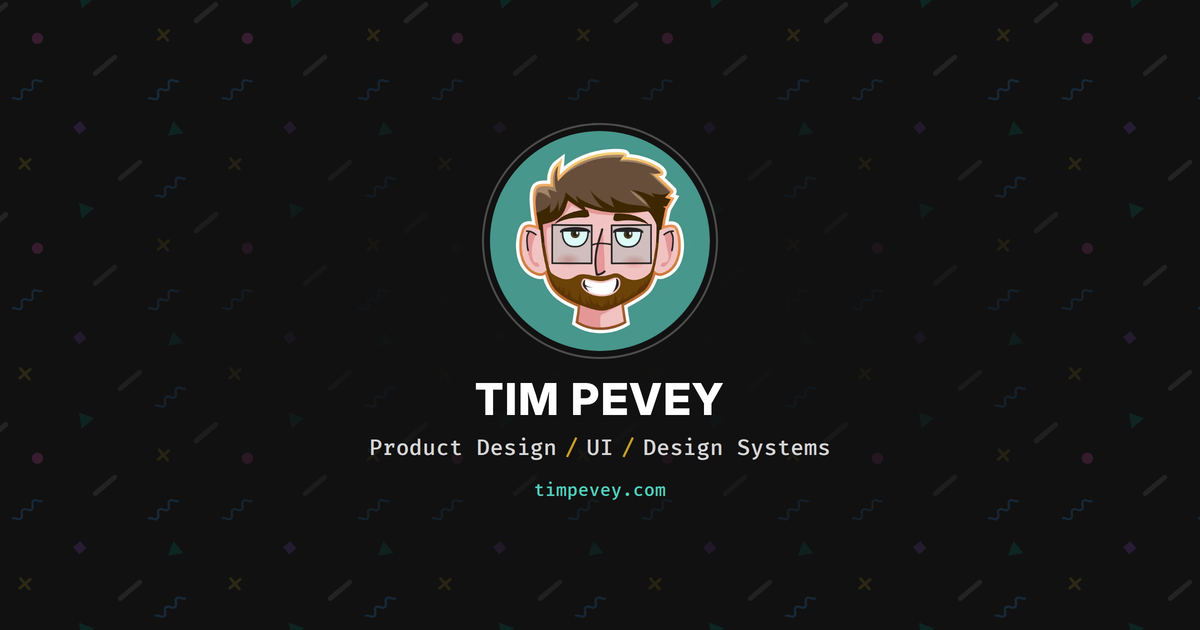
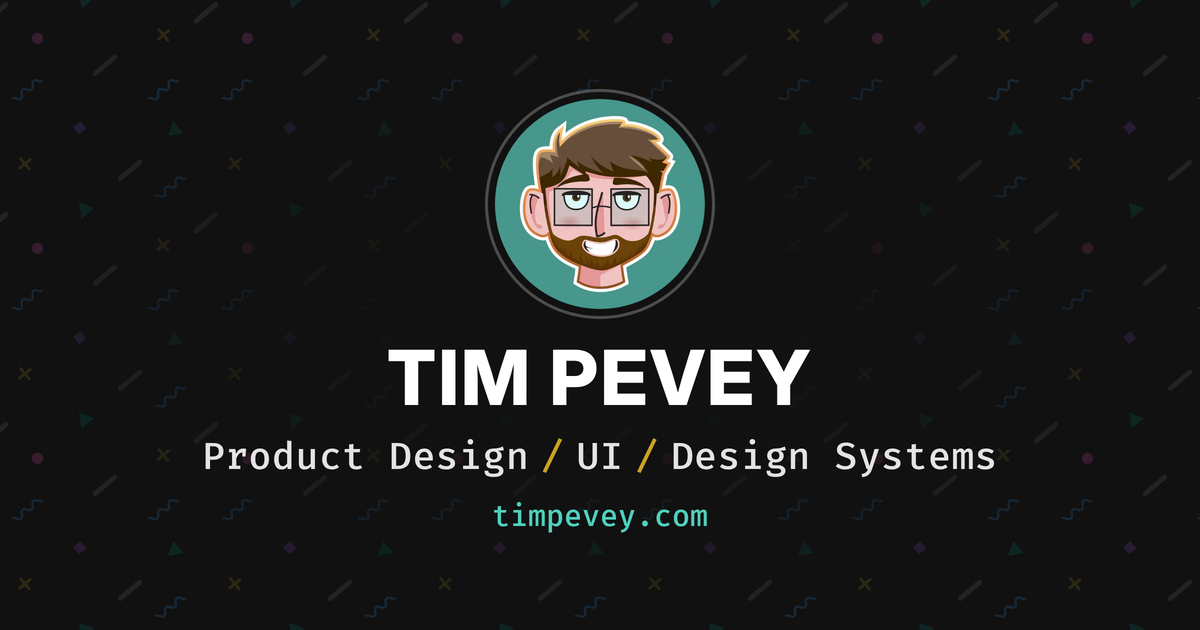
feat(seo): version share image URLs by content hash
Link previews cache images by URL, so a replaced file at the same path
went unnoticed. Append a short SHA-1 hash of each image's contents
(?v=xxxxxxxx) to og:image URLs at build time, falling back to the plain
URL if the file is missing.

Also update the home share image and add serial commas to the home and
case study meta titles and descriptions.

Changed region(s): [[0.3083, 0.1206, 0.6783, 0.6635], [0.1542, 0.6937, 0.8325, 0.8444]]

diff --git a/vite.config.js b/vite.config.js
@@ -4,6 +4,7 @@ import { readdirSync, readFileSync } from 'node:fs';
 import { join, relative, sep } from 'node:path';
 import { imageSize } from 'image-size';
 import { load as yamlLoad } from 'js-yaml';
+import { createHash } from 'node:crypto';
 
 // Case-study images load lazily, so the browser doesn't know their size until
 // they arrive. Without a size, each one starts 0px tall and the page grows as
@@ -61,13 +62,14 @@ function assetDims() {
 // page and emits a real <slug>/index.html per live case study, so each URL
 // returns 200 with its own title, description and image. Share images live
 // in public/og/ (1200x630) at stable URLs: <slug>.jpg for screenshots,
-// home.png for the home page; swap them freely.
+// home.png for the home page. Replace a file and its URL changes on the next
+// build (see versioned() below), so previews pick up the new image.
 const SITE = 'https://timpevey.com';
 const SITE_NAME = 'Tim Pevey';
 const HOME = {
   path: '/',
-  title: 'Tim Pevey | Product Designer, UI and Design Systems',
-  description: 'Product and UI designer focused on simplicity, clarity and systems thinking. Work in web, design systems and motion.',
+  title: 'Tim Pevey | Product Designer, UI, and Design Systems',
+  description: 'Product and UI designer focused on simplicity, clarity, and systems thinking. Work in web, design systems, and motion.',
   image: '/og/home.png', // PNG: crisp type on a flat graphic
 };
 
@@ -96,9 +98,21 @@ function readStudyPages() {
   return pages;
 }
 
+// Link previews cache images by URL, so a replaced file at the same address
+// goes unnoticed. Adding a short hash of the file's contents (?v=3f9a2c1b)
+// gives every new version of an image a new address automatically.
+function versioned(image) {
+  try {
+    const hash = createHash('sha1').update(readFileSync(join(import.meta.dirname, 'public', image))).digest('hex');
+    return `${image}?v=${hash.slice(0, 8)}`;
+  } catch {
+    return image; // file missing: plain URL
+  }
+}
+
 function metaTags({ path, title, description, image }) {
   const url = SITE + path;
-  const img = SITE + image;
+  const img = SITE + versioned(image);
   const t = escapeAttr(title);
   const d = escapeAttr(description);
   return [

diff --git a/src/content/case-studies/palettary/index.md b/src/content/case-studies/palettary/index.md
@@ -32,7 +32,7 @@ card: ./assets/palettary-screenshot.webp
 hero: ./assets/palettary-hero-img.webp
 tagline: "A designer's toolset, built by the designer who needed it"
 metaTitle: "Palettary Case Study | Tim Pevey, Product Designer"   # browser tab, search results and link previews
-metaDescription: "A design toolset I built solo: four browser tools, a Figma library and a published CLI. No accounts, no subscriptions."
+metaDescription: "A design toolset I built solo: four browser tools, a Figma library, and a published CLI. No accounts, no subscriptions."
 
 # ─── Body blocks ───────────────────────────────────────────────────────
 # Skeleton: copy is first-draft — rewrite freely. Every `# TODO asset` line is

diff --git a/src/content/case-studies/heartful-gardens/index.md b/src/content/case-studies/heartful-gardens/index.md
@@ -25,7 +25,7 @@ card: ./assets/hg-screenshot.webp
 hero: ./assets/hg-hero-img.webp
 tagline: "A brand, website and ordering system for a small-batch garden bakery"   # short logline on the home card (not the summary)
 metaTitle: "Heartful Gardens Case Study | Tim Pevey, Product Designer"   # browser tab, search results and link previews
-metaDescription: "How I built a brand, website and ordering system for a small-batch bakery and garden, from logo to inventory tools."
+metaDescription: "How I built a brand, website, and ordering system for a small-batch bakery and garden, from logo to inventory tools."
 
 # ─── Body blocks ───────────────────────────────────────────────────────
 blocks:
